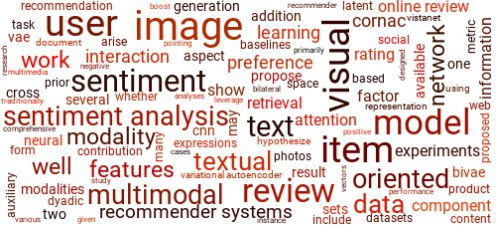
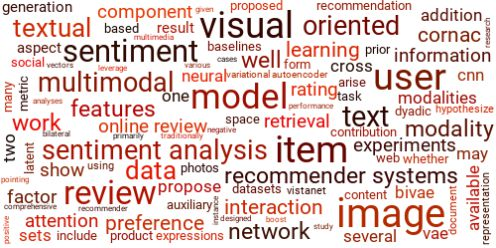
update

diff --git a/index.html b/index.html
@@ -11,7 +11,7 @@
     <meta name="keywords"
         content="Trương Quốc Tuấn, Truong Quoc Tuan, Machine Learning, Information Retrieval, Deep Learning, Representation Learning, Multimodal Learning, Preference Learning, Recommender Systems, Text Mining, Sentiment Analysis, Computer Vision">
     <meta name="author" content="Quoc-Tuan Truong">
-    <link rel="stylesheet" type="text/css" href="./assets/basic-profile.css?v=1.18" title="Basic Profile" media="all">
+    <link rel="stylesheet" type="text/css" href="./assets/basic-profile.css?v=1.19" title="Basic Profile" media="all">
     <link rel="shortcut icon" type="image/x-icon" href="favicon.ico">
 
     <title>Quoc-Tuan Truong</title>
@@ -58,12 +58,14 @@
                             onclick="trackEvent('https://www.hondafoundation.jp/en/yes.html', 'view', 'info', 'Honda Y-E-S Award');">Honda
                             Y-E-S Award</a> in 2016.
                     </p>
-                    <img src="./assets/wc.jpg?v=1.6" />
-                    <p class="mid">My research interests lie in the areas of machine learning and information retrieval.
-                        I have been working on multimodal sentiment analysis, cross-modal retrieval, multimodal
-                        representation learning and
-                        preference modeling for recommender systems.
+                    <img src="./assets/wc.jpg?v=1.7" />
+                    <p class="mid"><b>Research Interests:</b>
                     <p>
+                    <ul>
+                        <li>Machine Learning Methods</li>
+                        <li>Information Retrieval: Search and Recommender Systems</li>
+                        <li>Learning from the Web and Human Behavioral Data</li>
+                    </ul>
                     <p>
                         I try to open source everything that I do. If you can't find code or data
                         related
@@ -88,7 +90,7 @@
                 </div>
             </div>
 
-            <h3>Recent Updates</h3>
+            <h3>Recent News</h3>
             <ul id="highlights">
                 <li>
                     2021.05.10: Started research internship at Amazon, joining Product Graph team in Seattle, WA.
@@ -106,7 +108,8 @@
                     2021.03.08: Attended WSDM 2021 online.
                 </li>
                 <li>
-                    2021.02.18: Delivered a workshop on "Convolutional Neural Network" at NUS High School of Mathematics &
+                    2021.02.18: Delivered a workshop on "Convolutional Neural Network" at NUS High School of Mathematics
+                    &
                     Science, together with Prof. Hady W. Lauw.
                 </li>
                 <li>
@@ -567,7 +570,7 @@
                     const dateTimeFormat = new Intl.DateTimeFormat('en', { year: 'numeric', month: 'short', day: '2-digit' })
                     const [{ value: month }, , { value: day }, , { value: year }] = dateTimeFormat.formatToParts(date);
 
-                    document.getElementById("lastUpdated").innerHTML = `Last updated in ${month} ${year}.`;
+                    document.getElementById("lastUpdated").innerHTML = `Last updated in ${month} ${year}`;
                 });
 
                 Httpreq.open("GET", "https://api.github.com/repos/tqtg/tqtg.github.io/commits");

diff --git a/assets/basic-profile.css b/assets/basic-profile.css
@@ -23,11 +23,15 @@ ul#papers li.jour{border-left:3px solid rgb(180, 57, 113);}
 /* For desktop: */
 .bio-col-1 {width: 80%;float: left;}
 .bio-col-2 {width: 16%;float: right;margin-top: 5px;}
-.bio-col-1 img {display: inline-block;width: 48%;margin: 20px 0 0 25px;float: right;}
+.bio-col-1 img {display: inline-block;width: 42%;margin: 15px 0 0 25px;float: right;}
 .bio-col-2 img {width: 100%;display: block;margin-left: auto;margin-right: auto;margin-bottom: 10px;}
 .bio-col-1 p {text-align: justify;}
-.bio-col-1 p.mid {margin: 15px 0 15px;}
+.bio-col-1 p.mid {margin: 15px 0 3px;}
 .bio-col-2 p {text-align:center;}
+.bio-col-1 ul {margin-bottom:15px;}
+.bio-col-1 ul li{list-style-type:">  ";margin-left:15px;}
+
+
 
 /* For mobile phones: */
 @media only screen and (max-width: 600px) {

diff --git a/wc.py b/wc.py
@@ -54,7 +54,7 @@ STOPWORDS.update(["acm", "e", "g"])
 wc = WordCloud(
     font_path="./assets/fonts/Roboto-Regular.ttf",
     width=500,
-    height=230,
+    height=250,
     margin=2,
     background_color="white",
     color_func=color_fn,
